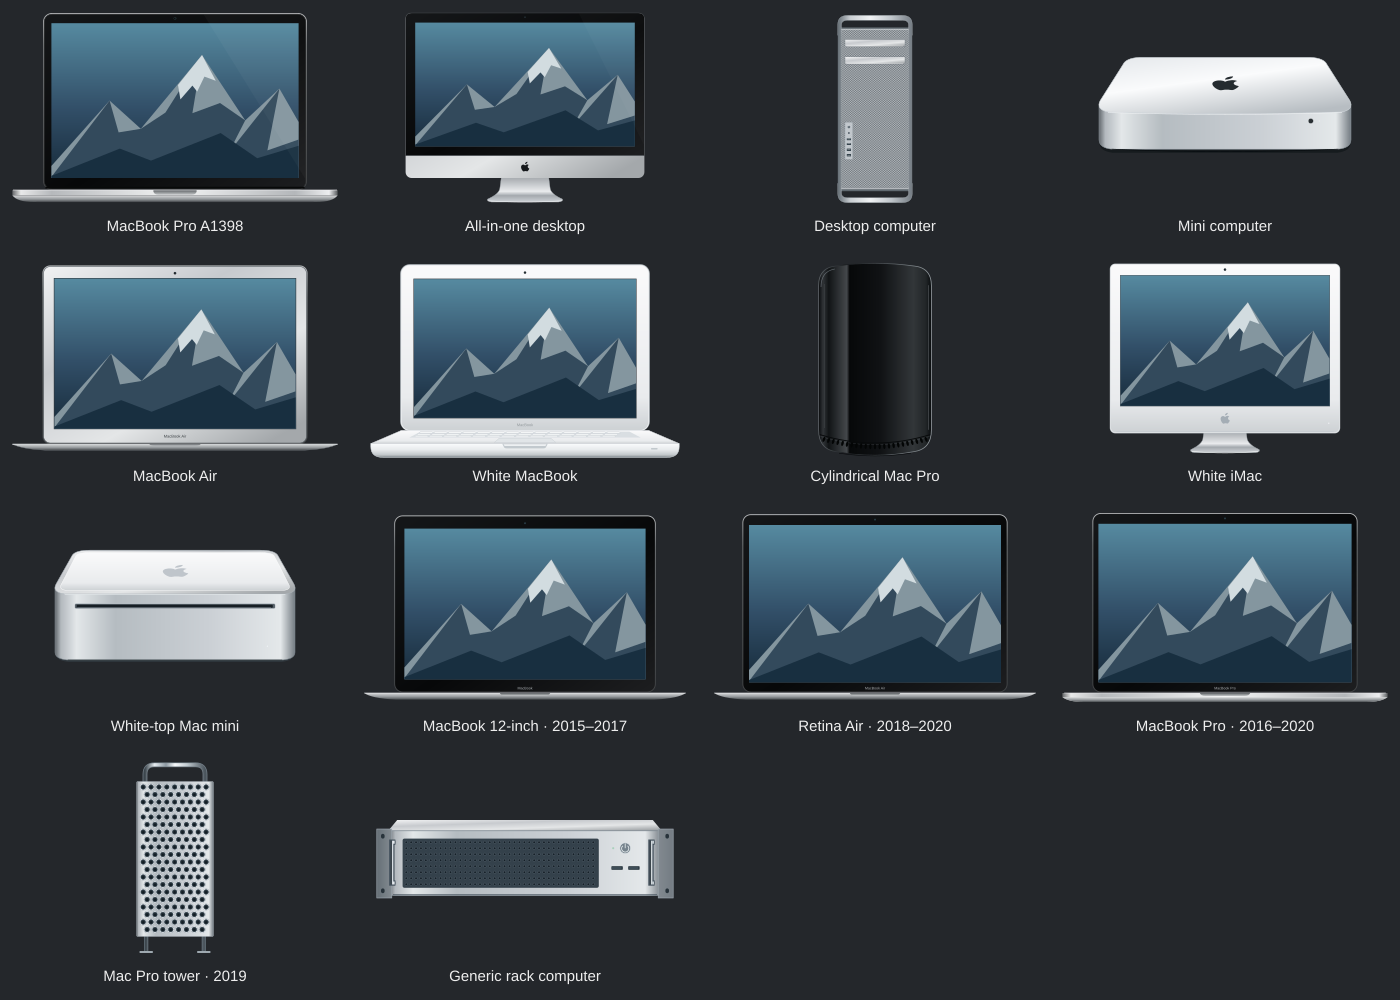
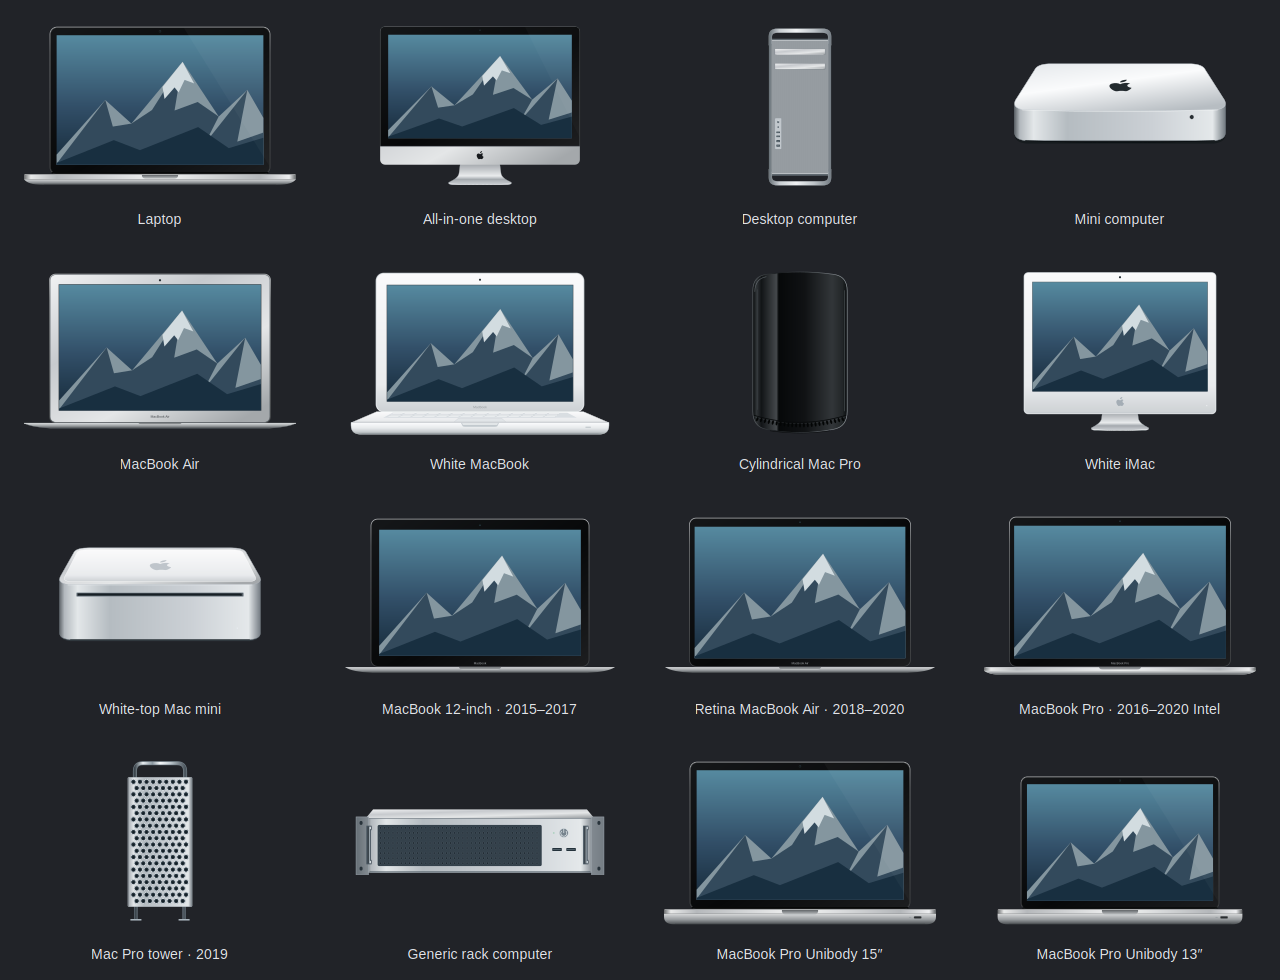
Add model-selected Unibody MacBook Pro artwork and refresh hardware gallery

diff --git a/tests/hardware-catalog.py b/tests/hardware-catalog.py
@@ -5,7 +5,7 @@ ROOT=Path(__file__).resolve().parents[1]
 spec=importlib.util.spec_from_file_location('hardware_identity',ROOT/'scripts/hardware_identity.py')
 m=importlib.util.module_from_spec(spec);spec.loader.exec_module(m)
 c=json.loads((ROOT/'assets/hardware/categories.json').read_text())
-assert set(c)=={'laptop','macbook-air','all-in-one','tower','mini','white-macbook','cylinder','white-imac','white-top-mini','macbook-retina','air-retina','pro-2016','tower-2019','rack'}
+assert set(c)=={'laptop','macbook-air','all-in-one','tower','mini','white-macbook','cylinder','white-imac','white-top-mini','macbook-retina','air-retina','pro-2016','tower-2019','rack','pro-unibody','pro-unibody-13'}
 for model,kind in [('MacBook1,1','white-macbook'),('MacBook7,1','white-macbook'),('MacBook8,1','macbook-retina'),('MacBook5,1','laptop'),('MacPro6,1','cylinder'),('MacBookPro10,1','laptop'),('MacBookAir5,2','macbook-air'),('MacBookAir7,2','macbook-air'),('MacBook Air','macbook-air'),('iBook','laptop'),('PowerBook5,1','laptop'),('iMac12,1','all-in-one'),('Macmini3,1','white-top-mini'),('MacPro5,1','tower'),('PowerMac7,2','tower')]:
     result=m.select_device({'model':model,'vendor':'Apple Inc.'},c)
     assert result['category']==kind
@@ -23,6 +23,8 @@ for kind, models in {
         assert m.select_device({'model': 'Apple '+model}, c)['category'] == kind
         assert m.select_device({'model': model, 'vendor': 'Other'}, c)['category'] == 'tower'
 for kind, models in {
+    'pro-unibody-13': ['MacBookPro5,5','MacBookPro7,1','MacBookPro8,1','MacBookPro9,2'],
+    'pro-unibody': ['MacBookPro5,1','MacBookPro5,2','MacBookPro5,3','MacBookPro5,4','MacBookPro6,1','MacBookPro6,2','MacBookPro8,2','MacBookPro8,3','MacBookPro9,1'],
     'macbook-retina': ['MacBook8,1','MacBook9,1','MacBook10,1'],
     'air-retina': ['MacBookAir8,1','MacBookAir8,2','MacBookAir9,1'],
     'pro-2016': ['MacBookPro13,1','MacBookPro13,2','MacBookPro13,3','MacBookPro14,1','MacBookPro14,2','MacBookPro14,3','MacBookPro15,1','MacBookPro15,2','MacBookPro15,3','MacBookPro15,4','MacBookPro16,1','MacBookPro16,2','MacBookPro16,3','MacBookPro16,4'],
@@ -40,6 +42,8 @@ for identity in [
 ]:
     assert m.select_device(identity,c)['category']=='rack'
 assert m.select_device({'model':'MacPro7,1','vendor':'Apple Inc.','chassis':'7'},c)['category']=='tower-2019'
+assert m.select_device({'model':'MacBookPro10,1','vendor':'Apple Inc.'},c)['category']=='laptop'
+assert m.menu_icon_path({'category':'pro-unibody'}).name=='laptop-symbolic.svg'
 # Apple Silicon is not classified as the newly added Intel generations.
 assert m.select_device({'model':'MacBookPro17,1','vendor':'Apple Inc.'},c)['category']!='pro-2016'
 assert m.select_device({'model':'MacBookAir10,1','vendor':'Apple Inc.'},c)['category']!='air-retina'

diff --git a/scripts/build-hardware-gallery.py b/scripts/build-hardware-gallery.py
@@ -1,0 +1,37 @@
+#!/usr/bin/python3
+"""Render the hardware catalog without modifying any source illustration.
+
+Requires python3-gi, gir1.2-rsvg-2.0 and python3-cairo.
+"""
+import json
+from pathlib import Path
+import cairo
+import gi
+
+gi.require_version('Rsvg', '2.0')
+from gi.repository import Rsvg
+
+ROOT = Path(__file__).resolve().parents[1]
+catalog = json.loads((ROOT / 'assets/hardware/categories.json').read_text())
+columns, cell_width, cell_height = 4, 320, 245
+rows = (len(catalog) + columns - 1) // columns
+surface = cairo.ImageSurface(cairo.FORMAT_ARGB32, columns * cell_width, rows * cell_height)
+context = cairo.Context(surface)
+context.set_source_rgb(.13, .14, .16)
+context.paint()
+labels = {'pro-unibody': 'MacBook Pro Unibody 15″', 'pro-unibody-13': 'MacBook Pro Unibody 13″'}
+for index, (key, item) in enumerate(catalog.items()):
+    x, y = index % columns * cell_width, index // columns * cell_height
+    rect = Rsvg.Rectangle()
+    rect.x, rect.y, rect.width, rect.height = x + 22, y + 15, cell_width - 44, 184
+    Rsvg.Handle.new_from_file(str(ROOT / 'assets/hardware' / item['asset'])).render_document(context, rect)
+    context.select_font_face('sans-serif', cairo.FONT_SLANT_NORMAL, cairo.FONT_WEIGHT_NORMAL)
+    context.set_font_size(14)
+    context.set_source_rgb(.88, .89, .91)
+    label = labels.get(key, item['label'])
+    extents = context.text_extents(label)
+    context.move_to(x + (cell_width - extents.width) / 2 - extents.x_bearing, y + 224)
+    context.show_text(label)
+out = ROOT / 'docs/screenshots/hardware-categories.png'
+surface.write_to_png(str(out))
+print(f'Rendered {len(catalog)} categories: {out}')

diff --git a/scripts/hardware_identity.py b/scripts/hardware_identity.py
@@ -31,6 +31,12 @@ def select_device(identity, catalog=None):
         name=model.removeprefix('Apple ')
         if chassis=='23' or name.startswith('Xserve'):
             category='rack'
+        elif name in ('MacBookPro5,5','MacBookPro7,1','MacBookPro8,1','MacBookPro9,2'):
+            category='pro-unibody-13'
+        elif name in ('MacBookPro5,1','MacBookPro5,2','MacBookPro5,3','MacBookPro5,4',
+                      'MacBookPro6,1','MacBookPro6,2',
+                      'MacBookPro8,2','MacBookPro8,3','MacBookPro9,1'):
+            category='pro-unibody'
         elif name == 'MacPro7,1':category='tower-2019'
         elif name in ('MacBook8,1','MacBook9,1','MacBook10,1'):category='macbook-retina'
         elif name in ('MacBookAir8,1','MacBookAir8,2','MacBookAir9,1'):category='air-retina'
@@ -53,7 +59,7 @@ def select_device(identity, catalog=None):
 
 def menu_icon_path(selection):
     category=selection['category']
-    if category in ('laptop','macbook-air','white-macbook','macbook-retina','air-retina','pro-2016'):
+    if category in ('laptop','macbook-air','white-macbook','macbook-retina','air-retina','pro-2016','pro-unibody','pro-unibody-13'):
         kind='laptop'
     elif category in ('all-in-one','white-imac'):kind='desktop'
     elif category in ('mini','white-top-mini'):kind='mini'

diff --git a/docs/HARDWARE-CATALOG.md b/docs/HARDWARE-CATALOG.md
@@ -1,8 +1,8 @@
 # Hardware category illustrations
 
-![All fourteen categories](screenshots/hardware-categories.png)
+![All sixteen categories](screenshots/hardware-categories.png)
 
-Fourteen original SVG illustrations share the existing A1398 drawing’s palette, metallic gradients, geometric mountain wallpaper and transparent background. No generated raster or product photos are installed. The MacBook Pro illustration is the exact original `macbook-pro-a1398.svg` shown in the repository About screenshot.
+Sixteen original SVG illustrations share the existing A1398 drawing’s palette, metallic gradients, geometric mountain wallpaper and transparent background. No generated raster or product photos are installed. The MacBook Pro illustration is the exact original `macbook-pro-a1398.svg` shown in the repository About screenshot.
 
 | Category | Artwork |
 |---|---|
@@ -11,6 +11,8 @@ Fourteen original SVG illustrations share the existing A1398 drawing’s palette
 | 2016–2020 Intel MacBook Pro | ![2016–2020 Intel MacBook Pro](../assets/hardware/categories/pro-2016.svg) |
 | 2019 Mac Pro tower | ![2019 Mac Pro tower](../assets/hardware/categories/tower-2019.svg) |
 | Generic rack | ![Generic rack](../assets/hardware/categories/rack.svg) |
+| Unibody MacBook Pro 13-inch | ![13-inch Unibody](../assets/hardware/categories/macbook-pro-unibody-13.svg) |
+| Unibody MacBook Pro 15-inch / larger-family fallback | ![15-inch Unibody](../assets/hardware/categories/macbook-pro-unibody.svg) |
 | Laptop | ![Laptop](../assets/hardware/macbook-pro-a1398.svg) |
 | All-in-one desktop | ![All-in-one desktop](../assets/hardware/categories/all-in-one.svg) |
 | Desktop computer | ![Desktop computer](../assets/hardware/categories/tower.svg) |
@@ -98,3 +100,20 @@ About metadata when opened.
 Selection is recalculated during installation from the target computer’s model,
 vendor and chassis type. It does not carry over the author’s computer identity
 or enable any GPU, Wi-Fi or boot configuration.
+
+## Pre-Retina Unibody MacBook Pro
+
+Both original front-view SVGs retain the A1398 palette and landscape but use a
+thicker aluminium base and the front-right infrared receiver. The existing
+2013 A1398 asset is byte-for-byte unchanged; the laptop menu symbol is retained.
+
+| Identifiers | Selected illustration |
+| --- | --- |
+| MacBookPro5,5 / 7,1 / 8,1 / 9,2 | 13-inch Unibody (2009–2012) |
+| MacBookPro5,1 / 5,3 / 5,4 / 6,2 / 8,2 / 9,1 | 15-inch Unibody (2008–2012) |
+| MacBookPro5,2 / 6,1 / 8,3 | Larger Unibody family fallback for 17-inch; no exact-size claim |
+| MacBookPro10,1 and other earlier Retina Pro models | Existing A1398 illustration |
+
+The match is an explicit model allowlist, so 2012 Retina models are not captured
+by the non-Retina family merely because they share a release year.
+Reference: [Apple's 2010 13-inch user guide, page 20](https://www.gainsaver.com/content/manuals/MacBook_Pro_13inch_Mid2010.pdf#page=20).

diff --git a/README.md b/README.md
@@ -211,8 +211,8 @@ Use the supported **Zorin 18.x / GNOME 46 / x86_64 Wayland** baseline:
 
 Preparation installs dependencies and shared WhiteSur assets. Desktop mode applies the user theme, menus and application integration. Neither step installs our NVIDIA/Nouveau repairs, changes GRUB/kernel/initramfs, repairs Wi-Fi, or replaces GDM. `--full` remains a separate, explicit **MacBookPro10,1-only** boot/login/keyboard profile; GPU repairs are not included even there.
 
-About selects one of fourteen original transparent SVG category illustrations: MacBook Pro/laptop, MacBook Air, white MacBook, all-in-one, tower, cylindrical Mac Pro, white iMac, white-top Mac mini, mini computer, 12-inch Retina MacBook, Retina Air, 2016–2020 Intel MacBook Pro, 2019 Mac Pro tower and generic rack. Model family and chassis type select the image; it is not an exact-model photograph or a compatibility claim. See [portability and boundaries](docs/PORTABILITY.md) and the [category gallery](docs/HARDWARE-CATALOG.md).
+About selects one of sixteen original transparent SVG category illustrations: MacBook Pro/laptop, MacBook Air, white MacBook, all-in-one, tower, cylindrical Mac Pro, white iMac, white-top Mac mini, mini computer, 12-inch Retina MacBook, Retina Air, 2016–2020 Intel MacBook Pro, 2019 Mac Pro tower, generic rack, and 13/15-inch Unibody MacBook Pro. Model family and chassis type select the image; it is not an exact-model photograph or a compatibility claim. See [portability and boundaries](docs/PORTABILITY.md) and the [category gallery](docs/HARDWARE-CATALOG.md).
 
-![Fourteen hardware illustration categories](docs/screenshots/hardware-categories.png)
+![Sixteen hardware illustration categories](docs/screenshots/hardware-categories.png)
 
-The original A1398 MacBook Pro artwork is preserved. Rack selection uses chassis information; artwork selection does not enable hardware-specific repairs.
+The original A1398 MacBook Pro artwork is preserved. Pre-Retina Unibody MacBook Pro models now select separate 13-inch and 15-inch front-view illustrations with the front-right IR receiver. The 17-inch models share the representative larger Unibody drawing; they are not claimed as an exact-size match. Rack selection uses chassis information; artwork selection does not enable hardware-specific repairs.

diff --git a/docs/README.tr.md b/docs/README.tr.md
@@ -142,11 +142,15 @@ Her iki kurulum adımı önce `--dry-run` ile incelenebilir. Bu yol NVIDIA/Nouve
 Wi-Fi, GRUB, kernel, initramfs ve GDM ayarlarını değiştirmez. `--full` ayrı ve
 yalnızca MacBookPro10,1 için açıkça seçilen bir profildir.
 
-Hakkında ekranında 14 özgün çizimden biri hedef bilgisayarın model ailesi ve kasa
+Hakkında ekranında 16 özgün çizimden biri hedef bilgisayarın model ailesi ve kasa
 türüne göre otomatik seçilir. A1398 çizimi aynen korunur. Rack kasa bilgisi yoksa
 MacPro7,1 için kule kullanılır; model kimliği tek başına rack ayrımı yapamaz.
 
-![14 cihaz çizimi](screenshots/hardware-categories.png)
+DVD sürücülü Unibody MacBook Pro ailesi için 13 ve 15 inç çizimler
+model kimliğine göre seçilir; ön sağ IR alıcısı da gösterilir. 17 inç
+Unibody modelleri aynı kalın kasa ailesinin temsili çizimini kullanır.
+
+![16 cihaz çizimi](screenshots/hardware-categories.png)
 
 [Çizim galerisi ve model eşlemeleri](HARDWARE-CATALOG.md) · [Kurulum sınırları](PORTABILITY.md)
 
